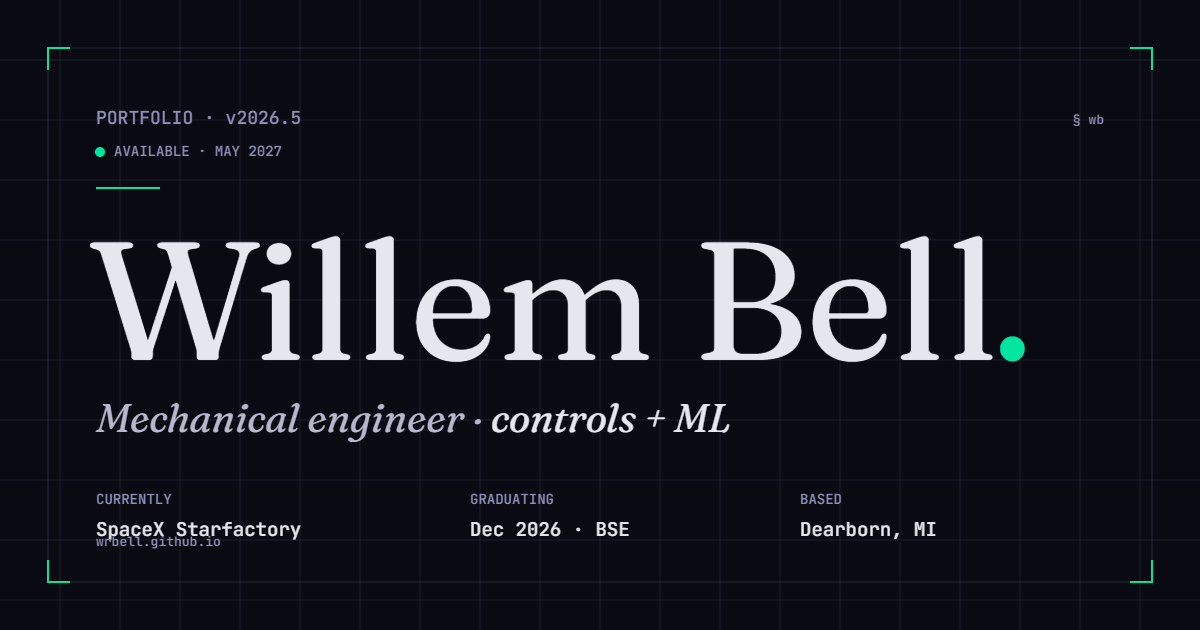
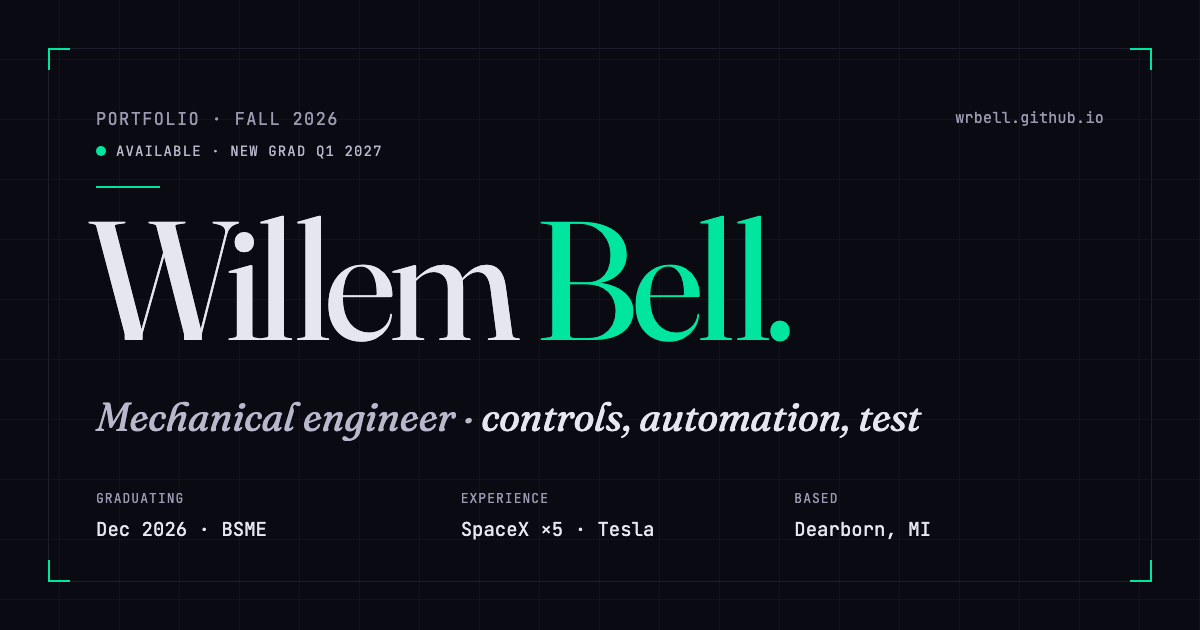
Regenerate social preview image with current content (#67)
The old card said "Currently SpaceX Starfactory" and "Available · May
2027", and the URL overlapped the Currently value. Adds
scripts/og-image.html as the source and scripts/og-image.mjs to render
it with Playwright into og-image.png and og-card.png.

diff --git a/scripts/og-image.html b/scripts/og-image.html
@@ -1,0 +1,43 @@
+<!DOCTYPE html>
+<!-- Source for assets/og-image.png + og-card.png (1200x630). Regenerate: node scripts/og-image.mjs -->
+<html lang="en"><head><meta charset="utf-8"><title>OG image</title><style>
+@font-face{font-family:Inter;font-weight:400 700;src:url(../assets/fonts/inter-latin.v1.woff2)}
+@font-face{font-family:JBM;font-weight:400 700;src:url(../assets/fonts/jetbrains-mono-latin.v1.woff2)}
+@font-face{font-family:Fraunces;font-weight:400 700;src:url(../assets/fonts/fraunces-latin.v1.woff2)}
+@font-face{font-family:Fraunces;font-style:italic;font-weight:400 700;src:url(../assets/fonts/fraunces-latin-italic.v1.woff2)}
+*{margin:0;box-sizing:border-box}
+html,body{width:1200px;height:630px;background:#0a0a12;color:#e6e6ee;overflow:hidden}
+body{position:relative;
+ background-image:linear-gradient(#ffffff08 1px,transparent 1px),linear-gradient(90deg,#ffffff08 1px,transparent 1px);
+ background-size:60px 60px;background-position:-1px -1px}
+.frame{position:absolute;inset:48px;border:1px solid #1e1e2e}
+.c{position:absolute;width:22px;height:22px;border-color:#00e5a0;border-style:solid}
+.tl{top:-1px;left:-1px;border-width:2px 0 0 2px}.tr{top:-1px;right:-1px;border-width:2px 2px 0 0}
+.bl{bottom:-1px;left:-1px;border-width:0 0 2px 2px}.br{bottom:-1px;right:-1px;border-width:0 2px 2px 0}
+.mono{font-family:JBM;letter-spacing:.08em;text-transform:uppercase}
+.top{position:absolute;left:96px;top:108px;font-size:17px;color:#9a9ab2}
+.avail{position:absolute;left:96px;top:142px;font-size:14px;color:#b8b8cc;display:flex;align-items:center;gap:10px}
+.avail i{width:10px;height:10px;border-radius:50%;background:#00e5a0}
+.rule{position:absolute;left:96px;top:186px;width:64px;height:2px;background:#00e5a0}
+.url{position:absolute;right:96px;top:108px;font-size:15px;color:#9a9ab2;text-transform:none;letter-spacing:.02em}
+h1{position:absolute;left:88px;top:196px;font-family:Fraunces;font-weight:400;font-size:168px;letter-spacing:-.035em;line-height:1}
+h1 b{font-weight:400;color:#00e5a0}
+.sub{position:absolute;left:96px;top:392px;font-family:Fraunces;font-style:italic;font-size:40px;color:#b8b8cc}
+.sub em{color:#e6e6ee}
+.vit{position:absolute;left:96px;right:96px;top:490px;display:grid;grid-template-columns:1.1fr 1fr 1fr;gap:24px}
+.vit .l{font-size:13px;color:#9a9ab2;margin-bottom:10px}
+.vit .v{font-family:JBM;font-size:19px;color:#e6e6ee}
+</style></head><body>
+<div class="frame"><span class="c tl"></span><span class="c tr"></span><span class="c bl"></span><span class="c br"></span></div>
+<div class="top mono">Portfolio · Fall 2026</div>
+<div class="url mono">wrbell.github.io</div>
+<div class="avail mono"><i></i>Available · new grad Q1 2027</div>
+<div class="rule"></div>
+<h1>Willem <b>Bell.</b></h1>
+<div class="sub">Mechanical engineer · <em>controls, automation, test</em></div>
+<div class="vit">
+ <div><div class="l mono">Graduating</div><div class="v">Dec 2026 · BSME</div></div>
+ <div><div class="l mono">Experience</div><div class="v">SpaceX ×5 · Tesla</div></div>
+ <div><div class="l mono">Based</div><div class="v">Dearborn, MI</div></div>
+</div>
+</body></html>

diff --git a/ROADMAP.md b/ROADMAP.md
@@ -5,7 +5,6 @@
 ### Content (user provides, Claude assists)
 - [ ] Starlink (Bastrop, May–Aug 2026) bullets — ledger, timeline, and `resume.html` have title + dates only
 - [ ] Regenerate `assets/willem-bell-resume.pdf` with the Starlink role
-- [ ] Regenerate `assets/og-image.png` — still says "Currently SpaceX Starfactory" / "Available · May 2027", and the URL overlaps the Currently value
 - [ ] Senior Design (ME 4671) card update once past proposal stage
 - [ ] Real diagrams for project-page placeholders (fast-fem, stark-translate, cobot axis, ME 440)
 - [ ] First notebook entries (`notebook.html` is unlinked until then)

diff --git a/README.md b/README.md
@@ -33,7 +33,7 @@ See [ROADMAP.md](ROADMAP.md) for the full categorized backlog. Highlights:
 - [ ] Differentiate the three Pannier Lab ledger entries
 - [ ] Real headshot (replaces removed viewfinder placeholder if/when re-added)
 - [ ] Real screenshots / hardware photos for each project card and detail page
-- [ ] Refresh `assets/og-image.png` (1200×630) — content is stale
+- [x] `assets/og-image.png` (1200×630) — regenerate with `node scripts/og-image.mjs`
 - [ ] Four case competition PDFs into `assets/cases/`
 - [ ] Real notebook entries (page is unlinked until then)
 
